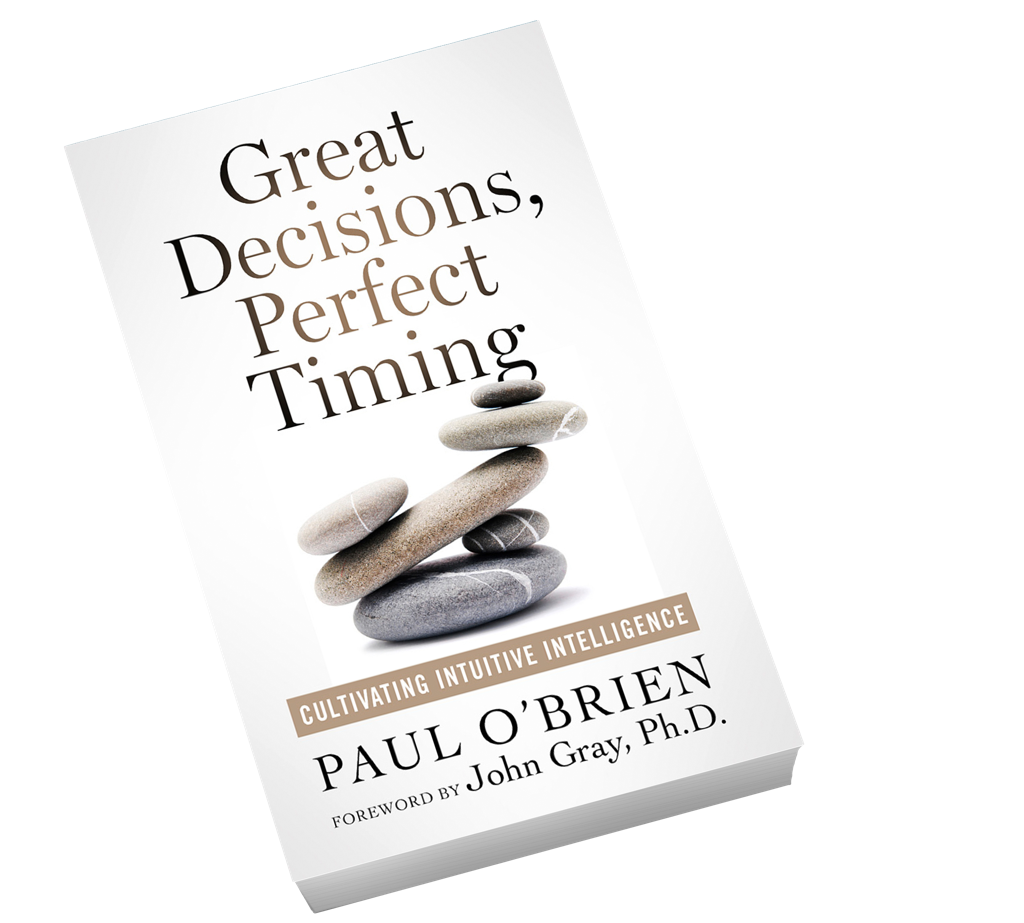
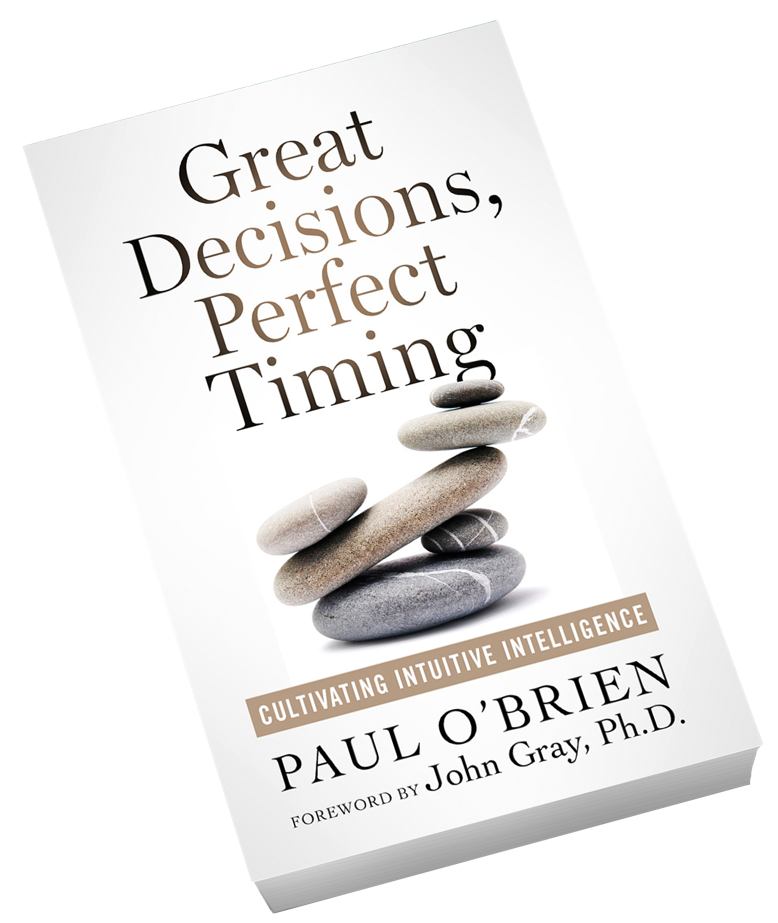
more image improvements and general style updates

Changed region(s): [[0.1542, 0.1213, 0.9871, 1.0], [0.0308, 0.1517, 0.0617, 0.182]]

diff --git a/index.html b/index.html
@@ -1,3 +1,4 @@
+<!-- GreatDecisionsPerfectTiming.com -->
 <!DOCTYPE html>
 <!--[if IE 8]> 				 <html class="no-js lt-ie9" lang="en" > <![endif]-->
 <!--[if gt IE 8]><!--> <html class="no-js" lang="en" > <!--<![endif]-->
@@ -206,23 +207,22 @@ or order page. If the latter, will need access to MailChimp.
 
 
 <div class="section" id="buy">
-  <div id="h-buy">
-    <h1>Pre-Order</h1>
-    <h2><strike>$19.95</strike> - $10.95 for the first 100</h2> 
-  </div>
-  <div class="row contact_block ">
-    <div class="large-12 columns">
-      <div class="row">
-        <div class="large-8 small-12 large-centered small-centered columns">
+  <div id="h-buy" class="row">
 
-          <p>We'll let you know as soon as the book is available for purchase.</p>
+        <div class="large-8 medium-6 small-12 columns">
+          <img src="images/VisionaryDecisionMaking-paperback.png" alt="Great Decisions Perfect Timing print edition" title="Great Decisions Perfect Timing print edition" width="1024" height="923" />
+        </div>
+        <div class="large-4 medium-6 small-12 columns">
+          <h1>Pre-Order</h1>
+          <h2>E-book and paperback</h2>
+<!--           <h2><a href="http://tinyurl.com/orderviaamazon" title="Pre Order Great Decisions Perfect Timing on Amazon" />$19.95 and $9.95 for print and kindle</a></h2>  -->
+
+            <a href="http://tinyurl.com/orderviaamazon" class="button radius">Pre-Order via Amazon.com</a>
+            <p>On sale February 19, 2014 -- the Chinese New Year!</p>
 
         </div>
-      </div>
-    </div>
   </div>
 </div>
-
 
 <!-- //------------------------------------------------
 
@@ -304,19 +304,15 @@ AUTHOR TAB: image is handled via CSS
 //------------------------------------------------ -->
 
 <div class="section" id="author">
-  <div id="h-author">
+  <div id="h-author" class="row">
 
-    <div class="row pb90" >
-      <div class="large-12 columns">
         <div class="large-4 medium-3 small-3 columns">
-            &nbsp;
+          <img src="images/POBonhands.jpg" alt="Paul O'Brien" title="Paul O'Brien, author of Great Decisions, Perfect Timing" />
         </div>
         <div class="large-8 medium-9 small-9 columns">
             <h1>Paul O'Brien</h1>
             <p>Paul O’Brien founded what became the world’s largest astrology and divination website and is known as the father of interactive divination. He is a sought-after visionary, entrepreneur and speaker. He is the author of <em class="book">The Visionary I Ching: A Book of Changes for the 21st Century</em> (ebook and app) and the book <em class="book">Divination: Sacred Tools for Reading the Mind of God</em> and he serves as Executive Director of the Divination Foundation (Divination.com). For 30 years he has hosted the Pathways radio show, an interview program focused on personal and cultural transformation.</p>
         </div>
-      </div>
-    </div>
 
   </div>
 </div>  

diff --git a/stylesheets/app.css b/stylesheets/app.css
@@ -103,19 +103,12 @@
 
 #h-author{ 
 		height: 400px;
-		-webkit-background-size:contain;
-		-moz-background-size:contain;
-		-o-background-size:contain;
-		background-size:contain;
 		background-color:#e1e1e1;
-		background-position:top left;
 		width:100% !important;
 		overflow:hidden;display:block;
 		position:relative;
-		background-repeat:no-repeat;
 		margin-bottom:10px;
 		top:-20px;
-		background-image: url(../images/paulo-with-crane.jpg);
 		background-color: #333333;
 }
 #h-reviews{background-image:url(../images/headers/bg_press.jpg);background-position:50% 20%; height:500px;}
@@ -123,22 +116,15 @@
 /*#h-buy{background-image:url(../images/headers/bg_books.jpg);background-position:50% 50%; height: 260px; padding-top: 60px; padding-left: 10em;}
 */
 #h-buy{
-	background-color: rgb(52,68,78); 
-	height: 400px;
-	background-image:url(../images/VisionaryDecisionMaking-paperback.png); 
-	background-repeat: no-repeat;
-	background-position: top left;
-
-		-webkit-background-size:contain;
-		-moz-background-size:contain;
-		-o-background-size:contain;
-		background-size:contain;
-
+	min-height: 90%;
 }
 #h-vdm{background-image:url(../images/headers/bg_reviews.jpg); 
 	background-position:50% 20%; height:500px;}
 
-#h-buy h1, #h-buy h2, #h-reviews h1,#h-reviews h2,#h-press h1,#h-press h2,#h-vdm h1,#h-vdm h2,#h-author h1,#h-author h2{color:#fff;font-family:'century_gothicregular';font-weight:normal;text-shadow:rgba(0,0,0,0.5) 1px 1px 1px}
+#h-reviews h1,#h-reviews h2,#h-press h1,#h-press h2,#h-vdm h1,#h-vdm h2,#h-author h1,#h-author h2{color:#fff;font-family:'century_gothicregular';font-weight:normal;text-shadow:rgba(0,0,0,0.5) 1px 1px 1px}
+#h-buy h1 { margin: .5em 0 .5em 0; color: #333; font-family:'century_gothicregular';font-weight:normal;}
+#h-buy .button { margin: 2em 0 3em 0; }
+#h-buy h2, #h-buy h2 a { color:#999; font-weight: lighter; font-family:'century_gothicregular';}
 #h-vdm h1,#h-vdm h2{ text-shadow: 3px 3px 5px rgba(0, 0, 0, .9) }
 #h-reviews h1,#h-vdm h1{margin:2em 0 -0.1em 0}
 #h-press h1{margin:2em 0 -0.1em 3em}
@@ -211,7 +197,7 @@ ul.sm_icon li a{width:30px;height:30px;display:block;border:2px solid #999;-webk
  #logo a { color: #666; }
  #home { 
 /*background: url('../images/bgwithbook-1440x900.jpg') no-repeat center center fixed; 
-*/background: url('../images/bgwithbook-1200pano.jpg') no-repeat center center fixed; 
+*/background: url('../images/bgwithbook-1900.jpg') no-repeat bottom left fixed; 
   -webkit-background-size: cover;
   -moz-background-size: cover;
   -o-background-size: cover;
@@ -242,12 +228,6 @@ and (max-device-width : 480px) {
 	}
 	ul{
 		padding-left: 5px;
-	}
-/*	#h-author{
-		height: 225px;
-	}*/
-	#h-author .large-12{
-		/*target author bio*/
 	}
 }
 
